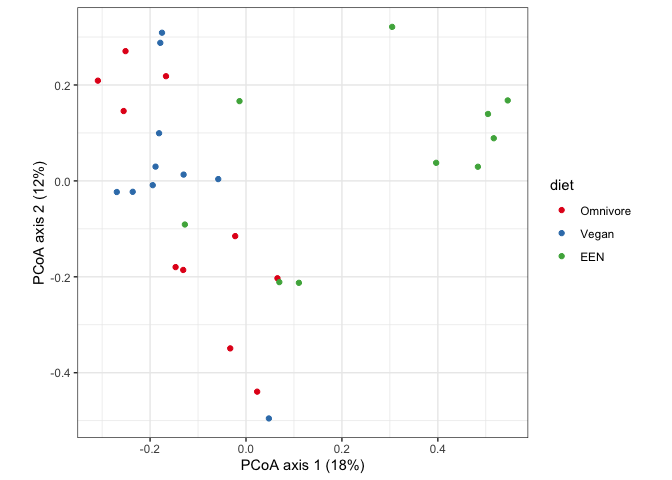
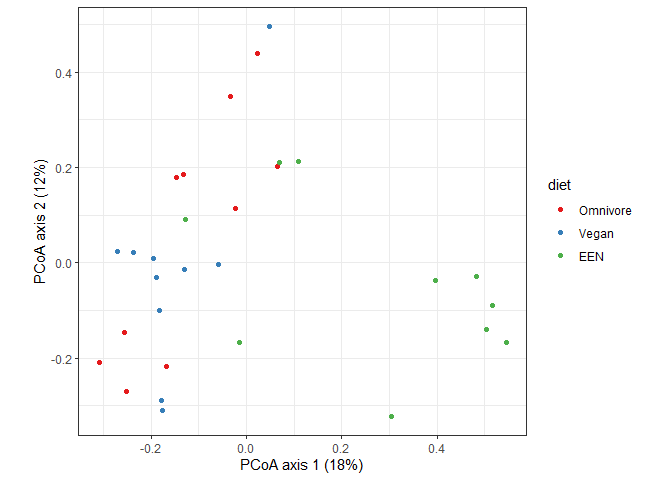
Add CI

diff --git a/README.md b/README.md
@@ -3,6 +3,13 @@
 
 # adonisplus
 
+<!-- badges: start -->
+
+[![R-CMD-check](https://github.com/PennChopMicrobiomeProgram/adonisplus/workflows/R-CMD-check/badge.svg)](https://github.com/PennChopMicrobiomeProgram/adonisplus/actions)
+[![Codecov test
+coverage](https://codecov.io/gh/PennChopMicrobiomeProgram/adonisplus/branch/master/graph/badge.svg)](https://app.codecov.io/gh/PennChopMicrobiomeProgram/adonisplus?branch=master)
+<!-- badges: end -->
+
 The `adonisplus` package provides some utilities for permutational
 multivariate analysis of variance, also known as adonis or PERMANOVA.
 
@@ -55,8 +62,9 @@ farmm_samples
     ##  8 farmm.9005.09       9005         9 Omnivore post           180     70    24
     ##  9 farmm.9005.10       9005        10 Omnivore post           180     70    24
     ## 10 farmm.9005.11       9005        11 Omnivore post           180     70    24
-    ## # … with 404 more rows, and 3 more variables: bacterial_16S_copies <dbl>,
-    ## #   num_reads <dbl>, host_frac <dbl>
+    ## # ℹ 404 more rows
+    ## # ℹ 3 more variables: bacterial_16S_copies <dbl>, num_reads <dbl>,
+    ## #   host_frac <dbl>
 
 The first column, `sample_id` provides a unique ID for each sample,
 which is also used to label the samples in the distance matrix.
@@ -92,18 +100,19 @@ farmm_final %>%
     ## # A tibble: 30 × 13
     ##    sample_id  Axis.1 Axis.2 subject_id study_day diet  antibiotics height weight
     ##    <chr>       <dbl>  <dbl>      <dbl>     <int> <fct> <fct>        <dbl>  <dbl>
-    ##  1 farmm.90… -0.251   0.271       9005        15 Omni… post          180    70  
-    ##  2 farmm.90…  0.0656 -0.203       9006        15 Omni… post          176    87.3
-    ##  3 farmm.90… -0.255   0.146       9010        15 Omni… post          171.   63.4
-    ##  4 farmm.90… -0.167   0.218       9015        15 Omni… post          173    61.3
-    ##  5 farmm.90… -0.309   0.209       9019        15 Omni… post          174.   66.3
-    ##  6 farmm.90… -0.0329 -0.349       9030        15 Omni… post          180.   90  
-    ##  7 farmm.90… -0.0226 -0.115       9033        15 Omni… post          170.   78.6
-    ##  8 farmm.90…  0.0233 -0.439       9036        15 Omni… post          178    75.8
-    ##  9 farmm.90… -0.131  -0.186       9037        15 Omni… post          176    71.3
-    ## 10 farmm.90… -0.147  -0.180       9040        15 Omni… post          173    71  
-    ## # … with 20 more rows, and 4 more variables: age <dbl>,
-    ## #   bacterial_16S_copies <dbl>, num_reads <dbl>, host_frac <dbl>
+    ##  1 farmm.90… -0.251  -0.271       9005        15 Omni… post          180    70  
+    ##  2 farmm.90…  0.0656  0.203       9006        15 Omni… post          176    87.3
+    ##  3 farmm.90… -0.255  -0.146       9010        15 Omni… post          171.   63.4
+    ##  4 farmm.90… -0.167  -0.218       9015        15 Omni… post          173    61.3
+    ##  5 farmm.90… -0.309  -0.209       9019        15 Omni… post          174.   66.3
+    ##  6 farmm.90… -0.0329  0.349       9030        15 Omni… post          180.   90  
+    ##  7 farmm.90… -0.0226  0.115       9033        15 Omni… post          170.   78.6
+    ##  8 farmm.90…  0.0233  0.439       9036        15 Omni… post          178    75.8
+    ##  9 farmm.90… -0.131   0.186       9037        15 Omni… post          176    71.3
+    ## 10 farmm.90… -0.147   0.180       9040        15 Omni… post          173    71  
+    ## # ℹ 20 more rows
+    ## # ℹ 4 more variables: age <dbl>, bacterial_16S_copies <dbl>, num_reads <dbl>,
+    ## #   host_frac <dbl>
 
 We see that `pcoaplus()` has returned a new data frame, with two new
 columns, `Axis.1` and `Axis.2`. We could use this to go straight into
@@ -141,12 +150,12 @@ farmm_final %>%
     sample_id_var = sample_id)
 ```
 
-    ## # A tibble: 3 × 7
-    ##   term         df sumsq meansq statistic r.squared p.value
-    ##   <chr>     <dbl> <dbl>  <dbl>     <dbl>     <dbl>   <dbl>
-    ## 1 diet          2  1.84  0.919      2.73     0.168   0.001
-    ## 2 Residuals    27  9.07  0.336     NA        0.832  NA    
-    ## 3 Total        29 10.9  NA         NA        1      NA
+    ## # A tibble: 3 × 6
+    ##   term        df sumsq r.squared statistic p.value
+    ##   <chr>    <dbl> <dbl>     <dbl>     <dbl>   <dbl>
+    ## 1 diet         2  1.84     0.168      2.73   0.001
+    ## 2 Residual    27  9.07     0.832     NA     NA    
+    ## 3 Total       29 10.9      1         NA     NA
 
 Our result looks like the output of `adonis()` from the `vegan` package,
 but it’s been tidied up into a data frame. If you have your own results
@@ -168,13 +177,13 @@ farmm_final %>%
     sample_id_var = sample_id, which = diet)
 ```
 
-    ## # A tibble: 4 × 8
-    ##   comparison       term     df sumsq meansq statistic r.squared p.value
-    ##   <chr>            <chr> <dbl> <dbl>  <dbl>     <dbl>     <dbl>   <dbl>
-    ## 1 All diet         diet      2 1.84   0.919      2.73    0.168    0.001
-    ## 2 Omnivore - Vegan diet      1 0.445  0.445      1.30    0.0671   0.159
-    ## 3 Omnivore - EEN   diet      1 1.15   1.15       3.39    0.159    0.001
-    ## 4 Vegan - EEN      diet      1 1.16   1.16       3.56    0.165    0.001
+    ## # A tibble: 4 × 7
+    ##   comparison       term     df sumsq r.squared statistic p.value
+    ##   <chr>            <chr> <dbl> <dbl>     <dbl>     <dbl>   <dbl>
+    ## 1 All diet         diet      2 1.84     0.168       2.73   0.001
+    ## 2 Omnivore - Vegan diet      1 0.445    0.0671      1.30   0.159
+    ## 3 Omnivore - EEN   diet      1 1.15     0.159       3.39   0.001
+    ## 4 Vegan - EEN      diet      1 1.16     0.165       3.56   0.001
 
 The results are as expected. So, far we could have done all of this work
 using the functions in `vegan` and `ape`, without much difficulty.
@@ -227,20 +236,20 @@ farmm_preabx %>%
     shuffle = c(diet = "between", study_day = "within"))
 ```
 
-    ## # A tibble: 5 × 7
-    ##   term              df  sumsq meansq statistic r.squared p.value
-    ##   <chr>          <dbl>  <dbl>  <dbl>     <dbl>     <dbl>   <dbl>
-    ## 1 diet               2  4.34   2.17       8.62    0.104    0.001
-    ## 2 study_day          1  0.504  0.504      2.00    0.0121   0.001
-    ## 3 diet:study_day     2  0.663  0.332      1.32    0.0159   0.001
-    ## 4 Residuals        144 36.2    0.252     NA       0.868   NA    
-    ## 5 Total            149 41.7   NA         NA       1       NA
+    ## # A tibble: 5 × 6
+    ##   term              df  sumsq r.squared statistic p.value
+    ##   <chr>          <dbl>  <dbl>     <dbl>     <dbl>   <dbl>
+    ## 1 diet               2  4.34     0.104       8.62   0.001
+    ## 2 study_day          1  0.504    0.0121      2.00   0.001
+    ## 3 diet:study_day     2  0.663    0.0159      1.32   0.001
+    ## 4 Residual         144 36.2      0.868      NA     NA    
+    ## 5 Total            149 41.7      1          NA     NA
 
 If you run this function yourself, you’ll notice that it takes a lot
 longer than it takes to run `adonis()`. As we randomly re-assign diets
 and time points, we re-run the `adonis()` function once for each
-re-assignment or permutation.[1] The functions used by `adonisplus()` to
-carry out the restricted permutations are named
+re-assignment or permutation.[^1] The functions used by `adonisplus()`
+to carry out the restricted permutations are named
 `shuffle_within_groups()` and `shuffle_between_groups()`, if you want to
 use them elsewhere.
 
@@ -257,21 +266,21 @@ farmm_preabx %>%
     which = diet)
 ```
 
-    ## # A tibble: 12 × 8
-    ##    comparison       term              df  sumsq meansq statistic r.squared p.value
-    ##    <chr>            <chr>          <dbl>  <dbl>  <dbl>     <dbl>     <dbl>   <dbl>
-    ##  1 All diet         diet               2 4.34   2.17       8.62    0.104     0.001
-    ##  2 All diet         study_day          1 0.504  0.504      2.00    0.0121    0.001
-    ##  3 All diet         diet:study_day     2 0.663  0.332      1.32    0.0159    0.001
-    ##  4 Omnivore - Vegan diet               1 1.68   1.68       6.61    0.0635    0.119
-    ##  5 Omnivore - Vegan study_day          1 0.0804 0.0804     0.317   0.00305   0.726
-    ##  6 Omnivore - Vegan diet:study_day     1 0.0358 0.0358     0.141   0.00136   0.988
-    ##  7 Omnivore - EEN   diet               1 1.89   1.89       7.59    0.0683    0.025
-    ##  8 Omnivore - EEN   study_day          1 0.628  0.628      2.53    0.0227    0.001
-    ##  9 Omnivore - EEN   diet:study_day     1 0.523  0.523      2.10    0.0189    0.001
-    ## 10 Vegan - EEN      diet               1 2.99   2.99      11.8     0.109     0.001
-    ## 11 Vegan - EEN      study_day          1 0.668  0.668      2.64    0.0245    0.001
-    ## 12 Vegan - EEN      diet:study_day     1 0.399  0.399      1.58    0.0146    0.001
+    ## # A tibble: 12 × 7
+    ##    comparison       term              df  sumsq r.squared statistic p.value
+    ##    <chr>            <chr>          <dbl>  <dbl>     <dbl>     <dbl>   <dbl>
+    ##  1 All diet         diet               2 4.34     0.104       8.62    0.001
+    ##  2 All diet         study_day          1 0.504    0.0121      2.00    0.001
+    ##  3 All diet         diet:study_day     2 0.663    0.0159      1.32    0.001
+    ##  4 Omnivore - Vegan diet               1 1.68     0.0635      6.61    0.119
+    ##  5 Omnivore - Vegan study_day          1 0.0804   0.00305     0.317   0.726
+    ##  6 Omnivore - Vegan diet:study_day     1 0.0358   0.00136     0.141   0.988
+    ##  7 Omnivore - EEN   diet               1 1.89     0.0683      7.59    0.025
+    ##  8 Omnivore - EEN   study_day          1 0.628    0.0227      2.53    0.001
+    ##  9 Omnivore - EEN   diet:study_day     1 0.523    0.0189      2.10    0.001
+    ## 10 Vegan - EEN      diet               1 2.99     0.109      11.8     0.001
+    ## 11 Vegan - EEN      study_day          1 0.668    0.0245      2.64    0.001
+    ## 12 Vegan - EEN      diet:study_day     1 0.399    0.0146      1.58    0.001
 
 In the pairwise comparisons, we find that the microbiome of the omnivore
 and vegan groups was not different during the pre-antibiotics period,
@@ -283,9 +292,9 @@ same distance matrix, `farmm_bc`. Each time we called a function using
 the distances, the distance matrix was automatically filtered and
 re-arranged to match the samples in our data frame. How convenient!
 
-[1] In fact, the `adonis()` function has some built-in capability to
-carry out restricted permutations, but because the built-in methods
-permute the samples and not the study groups, the between-subject
-permutations don’t work if you don’t have exactly the same number of
-samples per subject. Consequently, our data set would not work with the
-built-in permutation methods in `adonis()`.
+[^1]: In fact, the `adonis()` function has some built-in capability to
+    carry out restricted permutations, but because the built-in methods
+    permute the samples and not the study groups, the between-subject
+    permutations don’t work if you don’t have exactly the same number of
+    samples per subject. Consequently, our data set would not work with
+    the built-in permutation methods in `adonis()`.
